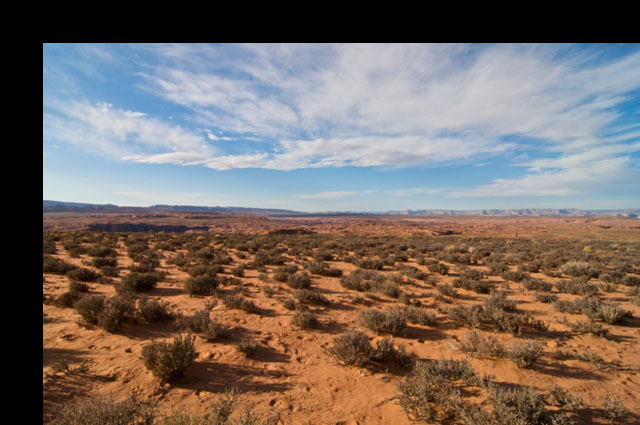
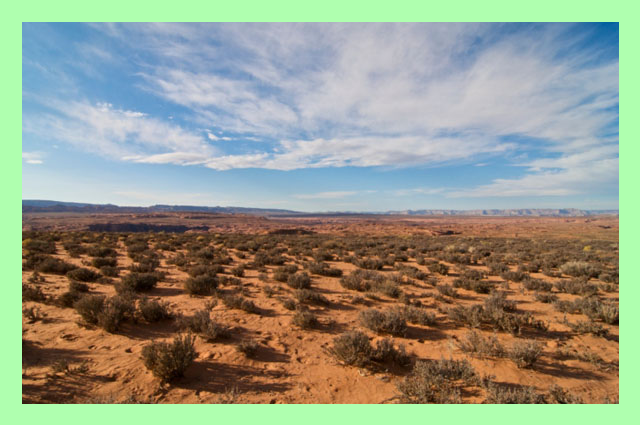
added images

Changed region(s): [[0.0, 0.0, 1.0, 1.0]]

diff --git a/1_4_7_code_frame_logo.py b/1_4_7_code_frame_logo.py
@@ -1,0 +1,97 @@
+import PIL
+import matplotlib.pyplot as plt # single use of plt is commented out
+import os.path  
+import PIL.ImageDraw            
+
+def frame(original_image, color, percent_of_side):
+    """ Places a frame around a PIL.Image
+    Change line 37 so that use_decorative_frame is False to answer Step 10.
+    original_image must be a PIL.Image
+    Returns a new PIL.Image with a border, where
+    0 < percent_of_side < 1
+    is the border width as a portion of the shorter dimension of original_image
+    """
+    #set the radius of the rounded corners
+    width, height = original_image.size
+    thickness = int(percent_of_side * min(width, height)) # thickness in pixels
+    
+    ###
+    #create a mask
+    ###
+    
+    #start with alpha=0 mask
+    r, g, b = color
+    frame_mask = PIL.Image.new('RGBA', (width, height), (0, 0, 0, 0))
+    drawing_layer = PIL.ImageDraw.Draw(frame_mask)
+    
+    # Draw four rectangles to fill frame area with alpha=255
+    drawing_layer.rectangle((0, 0, width, thickness), fill=(r, g, b, 255)) #top
+    drawing_layer.rectangle((0, 0, thickness, height), fill=(r, g, b, 255)) # left
+    drawing_layer.rectangle((0, height, width, height-thickness), fill=(r, g, b, 255)) # bottom
+    drawing_layer.rectangle((width, 0, width-thickness, height), fill=(r, g, b, 255)) #right
+    
+    
+    # Make the new image, starting with all transparent
+    #frame_image = PIL.Image.new('RGBA', (width, height), (r, g, b, 255))
+    result = original_image.copy()
+
+    result.paste(frame_mask, (0,0), mask=frame_mask)
+    return result
+    
+def get_images(directory=None):
+    """ Returns PIL.Image objects for all the images in directory.
+    
+    If directory is not specified, uses current directory.
+    Returns a 2-tuple containing 
+    a list with a  PIL.Image object for each image file in root_directory, and
+    a list with a string filename for each image file in root_directory
+    """
+    
+    if directory == None:
+        directory = os.getcwd() # Use working directory if unspecified
+        
+    image_list = [] # Initialize aggregaotrs
+    file_list = []
+    
+    directory_list = os.listdir(directory) # Get list of files
+    for entry in directory_list:
+        absolute_filename = os.path.join(directory, entry)
+        try:
+            image = PIL.Image.open(absolute_filename)
+            file_list += [entry]
+            image_list += [image]
+        except IOError:
+            pass # do nothing with errors tying to open non-images
+    return image_list, file_list
+
+def frame_all_images(directory=None, color=(175,255,175), width=0.05):
+    """ Saves a modfied version of each image in directory.
+    
+    Uses current directory if no directory is specified. 
+    Places images in subdirectory 'modified', creating it if it does not exist.
+    New image files are of type PNG and have transparent rounded corners.
+    """
+    
+    if directory == None:
+        directory = os.getcwd() # Use working directory if unspecified
+        
+    # Create a new directory 'modified'
+    new_directory = os.path.join(directory, 'modified')
+    try:
+        os.mkdir(new_directory)
+    except OSError:
+        pass # if the directory already exists, proceed  
+    
+    #load all the images
+    image_list, file_list = get_images(directory)  
+
+    #go through the images and save modified versions
+    for n in range(len(image_list)):
+        # Parse the filename
+        filename, filetype = file_list[n].split('.')
+        print n
+        # Round the corners with radius = 30% of short side
+        new_image = frame(image_list[n],color, width)
+        #save the altered image, suing PNG to retain transparency
+        new_image_filename = os.path.join(new_directory, filename + '.png')
+        new_image.save(new_image_filename)    
